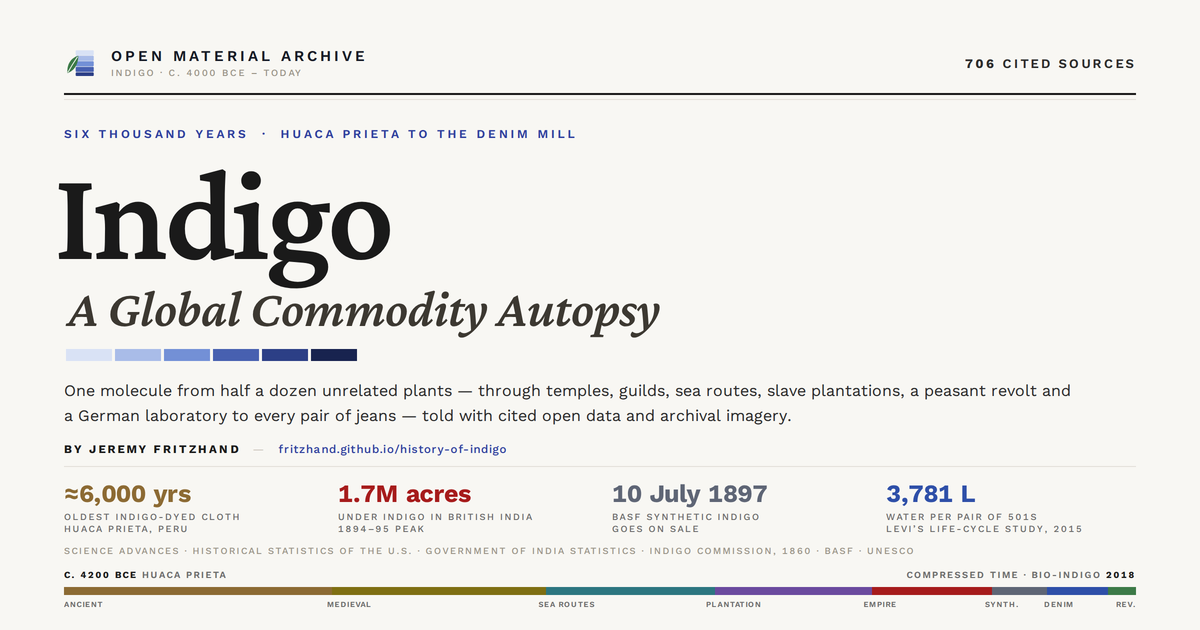
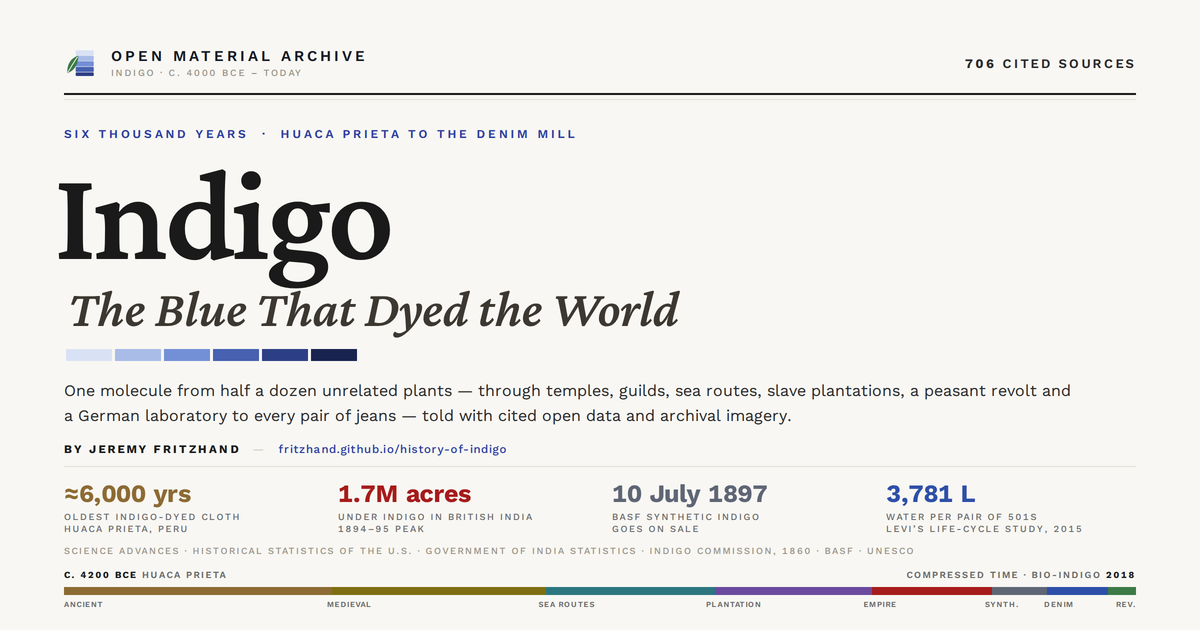
rename: Indigo: The Blue That Dyed the World
Retire the 'autopsy' framing inherited from the sister studies. The title,
share metadata, JSON-LD, share card, hero eyebrow ('A Global Commodity
History'), docs and file headers now use the new name; references to the
Tampa study keep that site's own title.

Claude-Session: https://claude.ai/code/session_01Ff5Jb6EgZv2xJsFZCQxeXH

Changed region(s): [[0.0617, 0.4524, 0.5858, 0.5429]]

diff --git a/index.html b/index.html
@@ -3,7 +3,7 @@
 <head>
   <meta charset="UTF-8" />
   <meta name="viewport" content="width=device-width, initial-scale=1.0" />
-  <title>Indigo: A Global Commodity Autopsy</title>
+  <title>Indigo: The Blue That Dyed the World</title>
   <meta name="description" content="Six thousand years of the world's blue — from a Peruvian midden to the denim mill — told with open historical data, maps, and archival imagery." />
   <link rel="canonical" href="https://fritzhand.github.io/history-of-indigo/" />
   <meta name="color-scheme" content="dark light" />
@@ -13,8 +13,8 @@
   <!-- Open Graph. The image is an absolute URL because crawlers do not resolve
        relative paths, and it is declared with its real dimensions. -->
   <meta property="og:site_name" content="Open Material Archive" />
-  <meta property="og:title" content="Indigo: A Global Commodity Autopsy" />
-  <meta property="og:description" content="A data-journalism autopsy of indigo: six thousand years of the world's blue, from a Peruvian midden to the denim mill — 706 cited data points across 150 institutions." />
+  <meta property="og:title" content="Indigo: The Blue That Dyed the World" />
+  <meta property="og:description" content="A data-journalism history of indigo: six thousand years of the world's blue, from a Peruvian midden to the denim mill — 706 cited data points across 150 institutions." />
   <meta property="og:type" content="article" />
   <meta property="og:locale" content="en_US" />
   <meta property="og:url" content="https://fritzhand.github.io/history-of-indigo/" />
@@ -23,7 +23,7 @@
   <meta property="og:image:type" content="image/png" />
   <meta property="og:image:width" content="1200" />
   <meta property="og:image:height" content="630" />
-  <meta property="og:image:alt" content="Indigo: A Global Commodity Autopsy — Open Material Archive, c. 4000 BCE to today" />
+  <meta property="og:image:alt" content="Indigo: The Blue That Dyed the World — Open Material Archive, c. 4000 BCE to today" />
   <meta property="article:author" content="https://github.com/fritzhand" />
   <meta property="article:published_time" content="2026-09-23T00:00:00Z" />
   <meta property="article:modified_time" content="2026-09-23T00:00:00Z" />
@@ -34,10 +34,10 @@
 
   <!-- Twitter / X -->
   <meta name="twitter:card" content="summary_large_image" />
-  <meta name="twitter:title" content="Indigo: A Global Commodity Autopsy" />
-  <meta name="twitter:description" content="A data-journalism autopsy of indigo: six thousand years of the world's blue, from a Peruvian midden to the denim mill — 706 cited data points across 150 institutions." />
+  <meta name="twitter:title" content="Indigo: The Blue That Dyed the World" />
+  <meta name="twitter:description" content="A data-journalism history of indigo: six thousand years of the world's blue, from a Peruvian midden to the denim mill — 706 cited data points across 150 institutions." />
   <meta name="twitter:image" content="https://fritzhand.github.io/history-of-indigo/assets/og-image.png" />
-  <meta name="twitter:image:alt" content="Indigo: A Global Commodity Autopsy — Open Material Archive, c. 4000 BCE to today" />
+  <meta name="twitter:image:alt" content="Indigo: The Blue That Dyed the World — Open Material Archive, c. 4000 BCE to today" />
   <script>
     /* Apply the saved theme before first paint (dark is the default). */
     (function () {
@@ -62,7 +62,7 @@
 {
   "@context": "https://schema.org",
   "@type": "Article",
-  "headline": "Indigo: A Global Commodity Autopsy",
+  "headline": "Indigo: The Blue That Dyed the World",
   "description": "Six thousand years of the world's blue — from a Peruvian midden to the denim mill — told with open historical data, maps, and archival imagery.",
   "image": "https://fritzhand.github.io/history-of-indigo/assets/og-image.png",
   "url": "https://fritzhand.github.io/history-of-indigo/",
@@ -114,7 +114,7 @@
       </div>
     </a>
     <div class="nav-divider"></div>
-    <span class="nav-project-title">Indigo: A Global Commodity Autopsy</span>
+    <span class="nav-project-title">Indigo: The Blue That Dyed the World</span>
     <div class="nav-right" id="nav-phase-indicator"></div>
     <button id="theme-toggle" class="theme-toggle" type="button" aria-label="Toggle light or dark mode" aria-pressed="false"></button>
   </nav>
@@ -133,7 +133,7 @@
   <!-- HERO -->
   <section id="hero">
     <div class="hero-inner">
-      <p class="hero-eyebrow">Global Commodity Autopsy &nbsp;·&nbsp; c. 4000 BCE – today</p>
+      <p class="hero-eyebrow">A Global Commodity History &nbsp;·&nbsp; c. 4000 BCE – today</p>
       <h1 class="hero-title">The World&rsquo;s<br><em>Blue</em></h1>
       <p class="hero-subtitle">How one molecule, pulled from half a dozen unrelated plants, travelled from a Peruvian midden to every pair of jeans on earth — through temples, guilds, sea routes, slave plantations, a peasant revolt and a German chemistry lab — told with open historical data and archival imagery.</p>
       <div class="dip-strip" aria-hidden="true"><span>1 dip</span><span>2</span><span>3</span><span>5</span><span>8</span><span>12+</span></div>
@@ -552,7 +552,7 @@
     <div class="section-wrapper">
       <p class="section-eyebrow">About</p>
       <h2 class="section-title">What This Is, and How to Read It</h2>
-      <p class="section-subtitle">An open-data autopsy of one dye across six thousand years — where it came from, how it spread, what it cost, and who paid.</p>
+      <p class="section-subtitle">An open-data history of one dye across six thousand years — where it came from, how it spread, what it cost, and who paid.</p>
 
       <div class="about-grid">
         <div class="about-main">
@@ -629,7 +629,7 @@
       <div class="footer-stats"></div>
 
       <div class="footer-credits">
-        <strong style="color:var(--text-secondary)">Project:</strong> Indigo: A Global Commodity Autopsy &nbsp;·&nbsp;
+        <strong style="color:var(--text-secondary)">Project:</strong> Indigo: A A Global Commodity History &nbsp;·&nbsp;
         An open-data sibling to the <a href="https://fritzhand.github.io/history-of-tampa/" target="_blank" rel="noopener">Downtown Tampa</a> and <a href="https://github.com/fritzhand/iranwar" target="_blank" rel="noopener">Iran War</a> autopsy formats<br>
         <strong style="color:var(--text-secondary)">Data Sources:</strong> <span id="footer-institutions">Science Advances (AAAS) · British Museum research · Perseus Digital Library · Wikisource · U.S. Census Bureau, <em>Historical Statistics of the United States</em> (FRASER) · South Carolina Encyclopedia · Charleston County Public Library · OpenEdition (IGPDE) · Government of India agricultural and trade statistics (Internet Archive) · Imperial Gazetteer of India (Digital South Asia Library) · Indigo Commission minutes, 1860 · Press Information Bureau, Government of India · Georgia Institute of Technology · <em>Chemie in unserer Zeit</em> / BASF · NobelPrize.org · USPTO · <em>Nature</em> · <em>Nature Chemical Biology</em> · Chemical &amp; Engineering News · Levi Strauss &amp; Co. · UNEP · UNESCO · Greenpeace · Tokushima Shimbun</span><br>
         <strong style="color:var(--text-secondary)">Built with:</strong> Leaflet.js &nbsp;·&nbsp; Chart.js &nbsp;·&nbsp; Esri World Dark Gray / Light Gray Canvas tiles<br>

diff --git a/js/data.js b/js/data.js
@@ -1,5 +1,5 @@
 /**
- * data.js — Indigo: A Global Commodity Autopsy
+ * data.js — Indigo: The Blue That Dyed the World
  * GENERATED by tools/build-data.mjs from research/*.json and tools/editorial.mjs.
  * Edit those and rebuild (node tools/build-data.mjs); do not edit this file by hand.
  *
@@ -13,7 +13,7 @@
 window.indigoData = {
 
   meta: {
-    title: "Indigo: A Global Commodity Autopsy",
+    title: "Indigo: The Blue That Dyed the World",
     subtitle: "Six thousand years of the world's blue, from a Peruvian midden to the denim mill",
     asOfYear: 2025,
     center: [22, 30],

diff --git a/tools/og-card.html b/tools/og-card.html
@@ -148,7 +148,7 @@
     <div class="head">
       <div class="kicker t4">Six Thousand Years &nbsp;&middot;&nbsp; Huaca Prieta to the Denim Mill</div>
       <h1>Indigo</h1>
-      <div class="deck">A Global Commodity Autopsy</div>
+      <div class="deck">The Blue That Dyed the World</div>
       <div class="dips"><span style="background:#D9E2F5"></span><span style="background:#A9BCE8"></span><span style="background:#7390D6"></span><span style="background:#4760B0"></span><span style="background:#2C3F86"></span><span style="background:#18234F"></span></div>
     </div>
 

diff --git a/css/styles.css b/css/styles.css
@@ -1,5 +1,5 @@
 /* ══════════════════════════════════════════════════════════════════
-   INDIGO: A GLOBAL COMMODITY AUTOPSY
+   INDIGO: THE BLUE THAT DYED THE WORLD
    styles.css — Editorial theme: unbleached cotton and vat ink, one crisis
    accent (madder red), one primary accent (indigo).
    Open historical data journalism. A domain fork of the Downtown Tampa

diff --git a/js/app.js b/js/app.js
@@ -1,5 +1,5 @@
 /**
- * app.js — Indigo: A Global Commodity Autopsy
+ * app.js — Indigo: The Blue That Dyed the World
  *
  * A domain fork of the Downtown Tampa engine: same editorial furniture
  * (sticky era legend, scrollytelling map, year scrubber, sankeys, cited

diff --git a/tools/assemble-page.py b/tools/assemble-page.py
@@ -26,7 +26,7 @@ console.log(JSON.stringify({ n, inst: inst.size }));
 c = json.loads(subprocess.check_output(['node', '-e', count_js, str(root / 'js/data.js')]))
 n, inst = f"{c['n']:,}", c['inst']
 html = (root / 'index.html').read_text()
-desc = (f"A data-journalism autopsy of indigo: six thousand years of the world's blue, from a Peruvian "
+desc = (f"A data-journalism history of indigo: six thousand years of the world's blue, from a Peruvian "
         f"midden to the denim mill — {n} cited data points across {inst} institutions.")
 html = re.sub(r'(<meta property="og:description" content=")[^"]*(")', lambda m: m.group(1) + desc + m.group(2), html)
 html = re.sub(r'(<meta name="twitter:description" content=")[^"]*(")', lambda m: m.group(1) + desc + m.group(2), html)

diff --git a/README.md b/README.md
@@ -1,4 +1,4 @@
-# Indigo: A Global Commodity Autopsy
+# Indigo: The Blue That Dyed the World
 
 An open-data, scrollytelling data-journalism site on **six thousand years of indigo** — from indigo-dyed cotton at Huaca Prieta, Peru (about 6,200–6,000 years old) to the denim mill. It is a domain fork of [`fritzhand/history-of-tampa`](https://github.com/fritzhand/history-of-tampa) (*Downtown Tampa: A Civic Development Autopsy*), itself a fork of [`fritzhand/iranwar`](https://github.com/fritzhand/iranwar): same architecture, same citation standard, a different subject and a planet-sized study area.
 

diff --git a/CONTENT_LICENSE.md b/CONTENT_LICENSE.md
@@ -20,7 +20,7 @@ inherited from the Tampa and Iran War templates. This file covers the
 - Values marked `estimate: true` or `DERIVED` are conversions, indices,
   remainders or editorial reconstructions; the `note` names the inputs. Do not
   cite them as primary figures.
-- Suggested attribution: *Indigo: A Global Commodity Autopsy*
+- Suggested attribution: *Indigo: The Blue That Dyed the World*
   (`fritzhand/history-of-indigo`), compiled from the sources cited per point.
 
 ## Media policy

diff --git a/ARCHIVAL_RESEARCH_PROMPT_INDIGO.md b/ARCHIVAL_RESEARCH_PROMPT_INDIGO.md
@@ -1,4 +1,4 @@
-# Archival Research Brief — Indigo: A Global Commodity Autopsy
+# Archival Research Brief — Indigo: The Blue That Dyed the World
 
 The next evidence pass. Every item below is a named gap on the live site: a
 figure marked PENDING or DERIVED where a primary record should exist, a

diff --git a/PROGRESS.md b/PROGRESS.md
@@ -1,4 +1,4 @@
-# Progress — Indigo: A Global Commodity Autopsy
+# Progress — Indigo: The Blue That Dyed the World
 
 **Repository:** `fritzhand/history-of-indigo`
 **Branch:** `claude/ecstatic-ptolemy-93k4oh`
